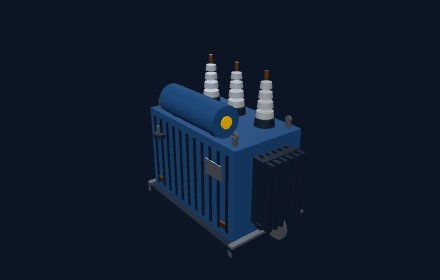
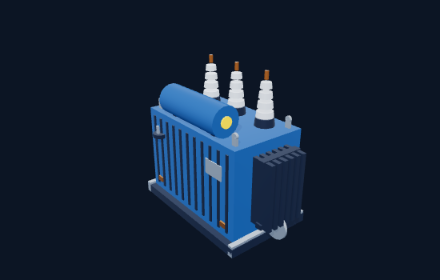
Light the 3D models properly: environment map, shadows, tone mapping
Every realism feature three.js offers was switched off. No shadow map, no
environment map, no textures, no tone mapping -- just three lights on flat
untextured geometry.

That was the real ceiling, not polygon count. These materials are metalness
.4-.9, and metal in a physically-based renderer is lit almost entirely by
what it REFLECTS. With no environment there was nothing to reflect, so a
porcelain bushing, a copper busbar and a radiator fin all resolved to flat
grey no matter how much geometry they carried.

Three changes, no new geometry:

  - scene.environment from a procedural equirect gradient run through
    PMREMGenerator. Built from a canvas rather than three's RoomEnvironment
    addon, which would be a SECOND module fetched from the CDN -- this is an
    offline-first PWA and three is deliberately the only external dependency.
    128x64 source keeps per-context cost trivial.
  - Shadow map, self-shadowing only, with the shadow camera fitted to each
    model's own bounds. The shapes span a DIP-8 on a board stub to a 48U
    rack, so a fixed frustum either misses the small ones or spreads 1024px
    over enough world space to make the large ones blocky.
  - ACES filmic tone mapping. Without it the specular highlights the
    environment introduces clip straight to white.

Direct light intensities are dialled back (hemi .95->.30, key 1.15->.85,
fill .35->.22) because the environment now supplies the ambient and all of
[…]

Changed region(s): [[0.325, 0.2, 0.7091, 0.9143]]

diff --git a/voltfield-3d.js b/voltfield-3d.js
@@ -1462,6 +1462,58 @@
     };
   }
 
+  /* ---------- studio environment ----------
+     Every material here is metalness .4-.9. Metal in a physically-based renderer
+     is lit almost entirely by what it REFLECTS, so with no environment map a
+     bushing, a busbar or a radiator fin has nothing to reflect and resolves to
+     flat grey -- which is why the models read as plastic no matter how much
+     geometry they carry.
+
+     Built from a canvas gradient rather than three's RoomEnvironment addon: that
+     addon lives in examples/jsm and would be a SECOND module fetched from the
+     CDN. This site is an offline-first PWA and three is already the one external
+     dependency, so a procedural equirect out of core three keeps it that way.
+
+     PMREM output is bound to the renderer that produced it, so this cannot be
+     shared between viewers -- each context builds its own. Kept at 128x64 source
+     so that per-context cost stays trivial. */
+  function studioEnv(THREE, renderer){
+    const W = 128, H = 64;
+    const cv = document.createElement('canvas');
+    cv.width = W; cv.height = H;
+    const x = cv.getContext('2d');
+
+    /* Sky over horizon over floor. The bright band across the horizon is what
+       produces the long specular highlight along a cylindrical bushing or a
+       length of busway. */
+    const g = x.createLinearGradient(0, 0, 0, H);
+    g.addColorStop(0.00, '#F2F6FA');   // overhead
+    g.addColorStop(0.42, '#D8E2EC');
+    g.addColorStop(0.50, '#FFFFFF');   // horizon band
+    g.addColorStop(0.58, '#8FA0B4');
+    g.addColorStop(1.00, '#333F4E');   // floor
+    x.fillStyle = g; x.fillRect(0, 0, W, H);
+
+    /* Two soft key sources, so rotating the model sweeps a highlight across it
+       instead of presenting one uniform sheen from every angle. */
+    for (const k of [{cx:0.26, i:0.95}, {cx:0.72, i:0.55}]) {
+      const r = x.createRadialGradient(k.cx*W, H*0.30, 0, k.cx*W, H*0.30, W*0.20);
+      r.addColorStop(0, 'rgba(255,255,255,' + k.i + ')');
+      r.addColorStop(1, 'rgba(255,255,255,0)');
+      x.fillStyle = r; x.fillRect(0, 0, W, H);
+    }
+
+    const tex = new THREE.CanvasTexture(cv);
+    tex.mapping = THREE.EquirectangularReflectionMapping;
+    tex.colorSpace = THREE.SRGBColorSpace;
+
+    const pmrem = new THREE.PMREMGenerator(renderer);
+    const rt = pmrem.fromEquirectangular(tex);
+    pmrem.dispose();
+    tex.dispose();
+    return rt;                                  // caller disposes rt
+  }
+
   /* ---------- live-instance registry ----------
      Browsers cap simultaneous WebGL contexts (16 in Chrome at time of writing)
      and silently kill the OLDEST context once you exceed it -- the canvas stays
@@ -1515,7 +1567,7 @@
      assembly turned out (a 1U PDU and a 48U rack both come back framed). */
   VF3D.mountScene = function(container, build, opts){
     const o = opts || {};
-    let disposed = false, renderer, camera, orbit, animId, ro;
+    let disposed = false, renderer, camera, orbit, animId, ro, envRT;
 
     loadThree().then(THREE => {
       if (disposed) return;
@@ -1532,17 +1584,59 @@
       renderer.setSize(w,h);
       renderer.setClearColor(0x000000, 0);
       renderer.domElement.style.cssText = 'width:100%;height:100%;display:block;touch-action:none;cursor:grab';
+
+      /* Filmic response instead of the default clip. Without it the specular
+         highlights the environment map introduces blow straight out to white. */
+      renderer.toneMapping = THREE.ACESFilmicToneMapping;
+      renderer.toneMappingExposure = 1.15;
+      renderer.shadowMap.enabled = true;
+      renderer.shadowMap.type = THREE.PCFSoftShadowMap;
+
       container.innerHTML = '';
       container.appendChild(renderer.domElement);
 
-      scene.add(new THREE.HemisphereLight(0xffffff, 0x22334C, 0.95));
-      const dir = new THREE.DirectionalLight(0xffffff, 1.15);
+      envRT = studioEnv(THREE, renderer);
+      scene.environment = envRT.texture;
+
+      /* Direct light is dialled well back from what it was before the
+         environment map existed: the env now supplies most of the ambient and
+         all of the specular, so the previous intensities double-count and wash
+         the models out. */
+      scene.add(new THREE.HemisphereLight(0xffffff, 0x22334C, 0.30));
+      const dir = new THREE.DirectionalLight(0xffffff, 0.85);
       dir.position.set(4,6,5); scene.add(dir);
-      const fill = new THREE.DirectionalLight(0xAFC0D3, 0.35);
+      dir.castShadow = true;
+      dir.shadow.mapSize.set(1024, 1024);
+      /* Shadow acne on this geometry comes from the many thin coplanar plates
+         (louvre slats, faceplate details, PCB pads). normalBias handles those
+         far better than depth bias alone, which would detach contact shadows. */
+      dir.shadow.bias = -0.0004;
+      dir.shadow.normalBias = 0.02;
+      const fill = new THREE.DirectionalLight(0xAFC0D3, 0.22);
       fill.position.set(-4,2,-3); scene.add(fill);
 
       const model = build(THREE);
       scene.add(model);
+
+      /* Self-shadowing only -- no ground plane. These shapes are framed on their
+         own bounds and several (conductor, busway, the PCB parts) have no ground
+         to stand on, so a catcher plane would either float or cut through them.
+         Radiator fins, louvres, fan blades and cable trays shadowing themselves
+         is where the depth cue actually comes from. */
+      model.traverse(function(n){
+        if (!n.isMesh) return;
+        /* A transparent mesh must NOT cast: the shadow map has no notion of
+           opacity, so a see-through surface casts a fully solid shadow. Every
+           translucent surface in this library exists specifically so you can
+           see what is behind it -- the soil around a ground rod, the glass door
+           on a capacitor cabinet, the POD shell -- and casting would black out
+           exactly the interior they were made transparent to reveal. */
+        const m = n.material;
+        const clear = Array.isArray(m) ? m.some(function(x){ return x && x.transparent; })
+                                       : !!(m && m.transparent);
+        n.castShadow = !clear;
+        n.receiveShadow = true;
+      });
 
       /* Frame the model from its own bounds. Fit the LARGER of the horizontal
          and vertical requirement against the matching half-FOV: a 48U rack is
@@ -1563,6 +1657,20 @@
       const distH = radXZ / Math.tan(hFov/2) + radXZ;
       const fit = Math.max(distV, distH);
       const radius = fit * (o.zoom || 1.25);
+
+      /* Fit the shadow camera to this model. The shapes span a wide range of
+         scales -- a DIP-8 on a board stub against a 48U rack -- and a single
+         fixed frustum either misses the small ones entirely or spreads 1024px
+         across so much world space that the large ones get blocky shadows. */
+      const shadowR = Math.max(size.x, size.y, size.z) * 0.85 + 0.5;
+      dir.position.set(ctr.x + shadowR*0.8, ctr.y + shadowR*1.2, ctr.z + shadowR*1.0);
+      dir.target.position.copy(ctr);
+      scene.add(dir.target);
+      const sc = dir.shadow.camera;
+      sc.left = -shadowR; sc.right = shadowR;
+      sc.top  =  shadowR; sc.bottom = -shadowR;
+      sc.near = 0.1;      sc.far = shadowR * 5;
+      sc.updateProjectionMatrix();
 
       const target = new THREE.Vector3(ctr.x, ctr.y, ctr.z);
       orbit = attachOrbit(camera, renderer.domElement, target, {
@@ -1601,6 +1709,10 @@
       if (animId) cancelAnimationFrame(animId);
       if (ro) ro.disconnect();
       if (orbit) orbit.dispose();
+      /* The PMREM render target is GPU memory owned by this context. It has to
+         go before the context is lost, or it is leaked for as long as the page
+         lives -- and with LRU eviction cycling viewers, that accumulates. */
+      if (envRT) { try { envRT.dispose(); } catch (e) {} envRT = null; }
       if (renderer) {
         renderer.dispose();
         // free the GL context immediately rather than waiting for GC, otherwise

diff --git a/sw.js b/sw.js
@@ -4,7 +4,7 @@
    of serving a stale file indefinitely. Still bump VERSION for an instant,
    forced cache-wide reset (e.g. an urgent fix) — activate() below wipes
    every cache bucket that doesn't match it. */
-const VERSION = 'voltfield-v44';
+const VERSION = 'voltfield-v45';
 
 const CORE = [
   './',
